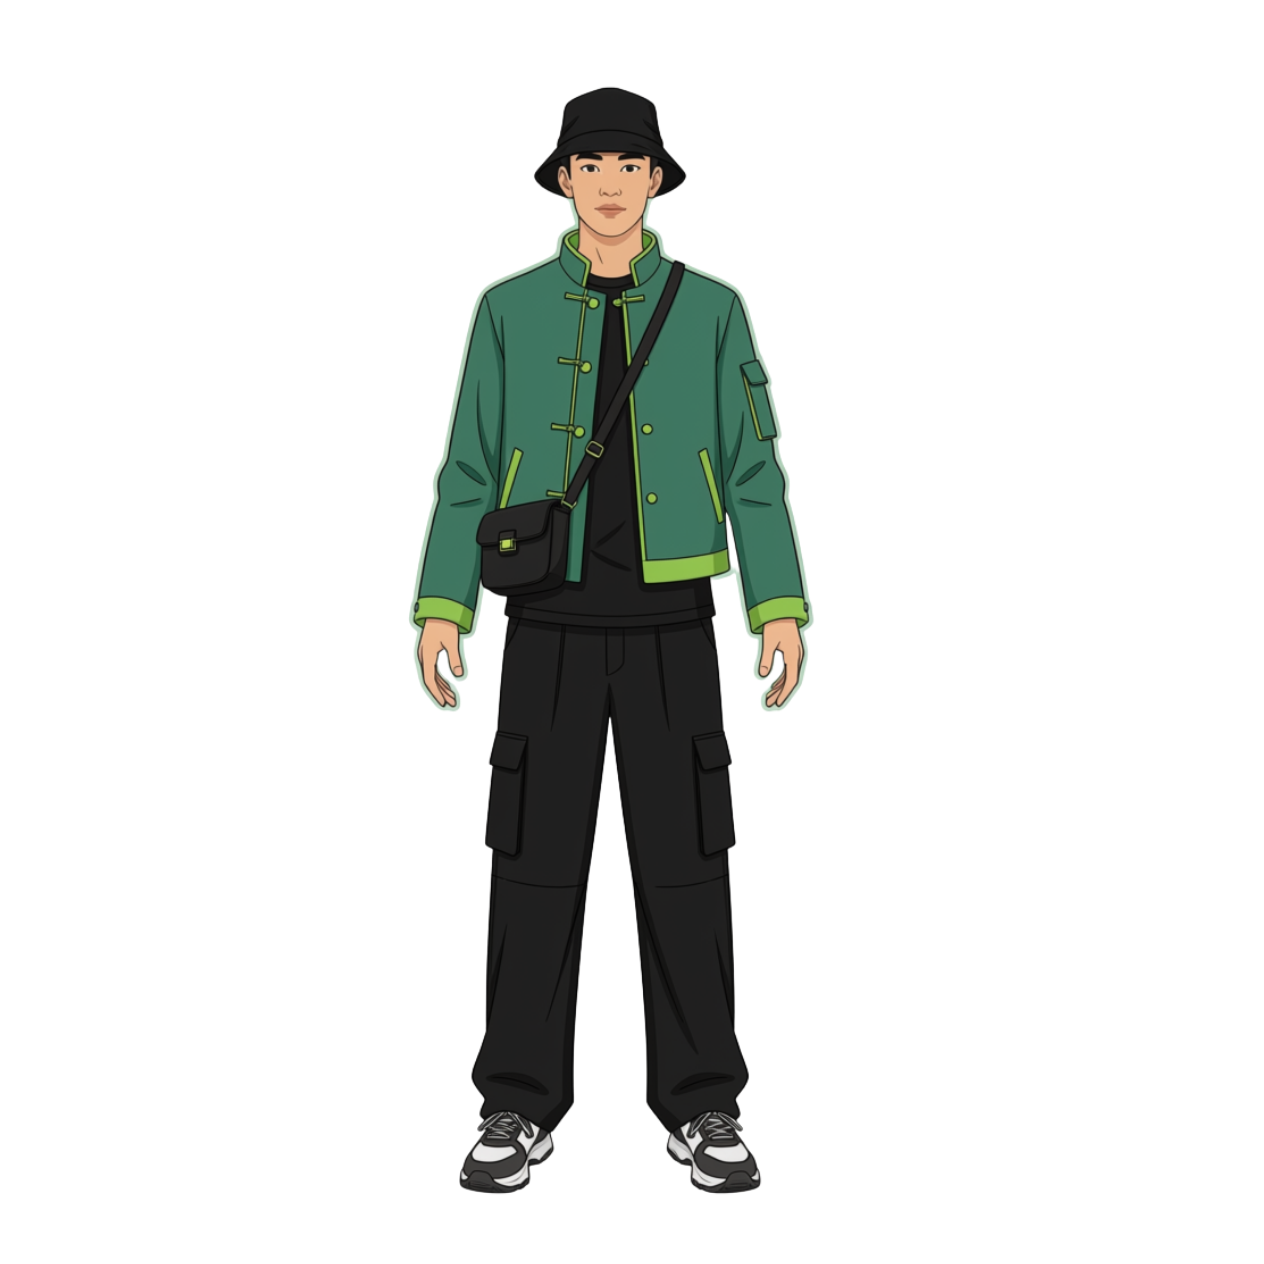
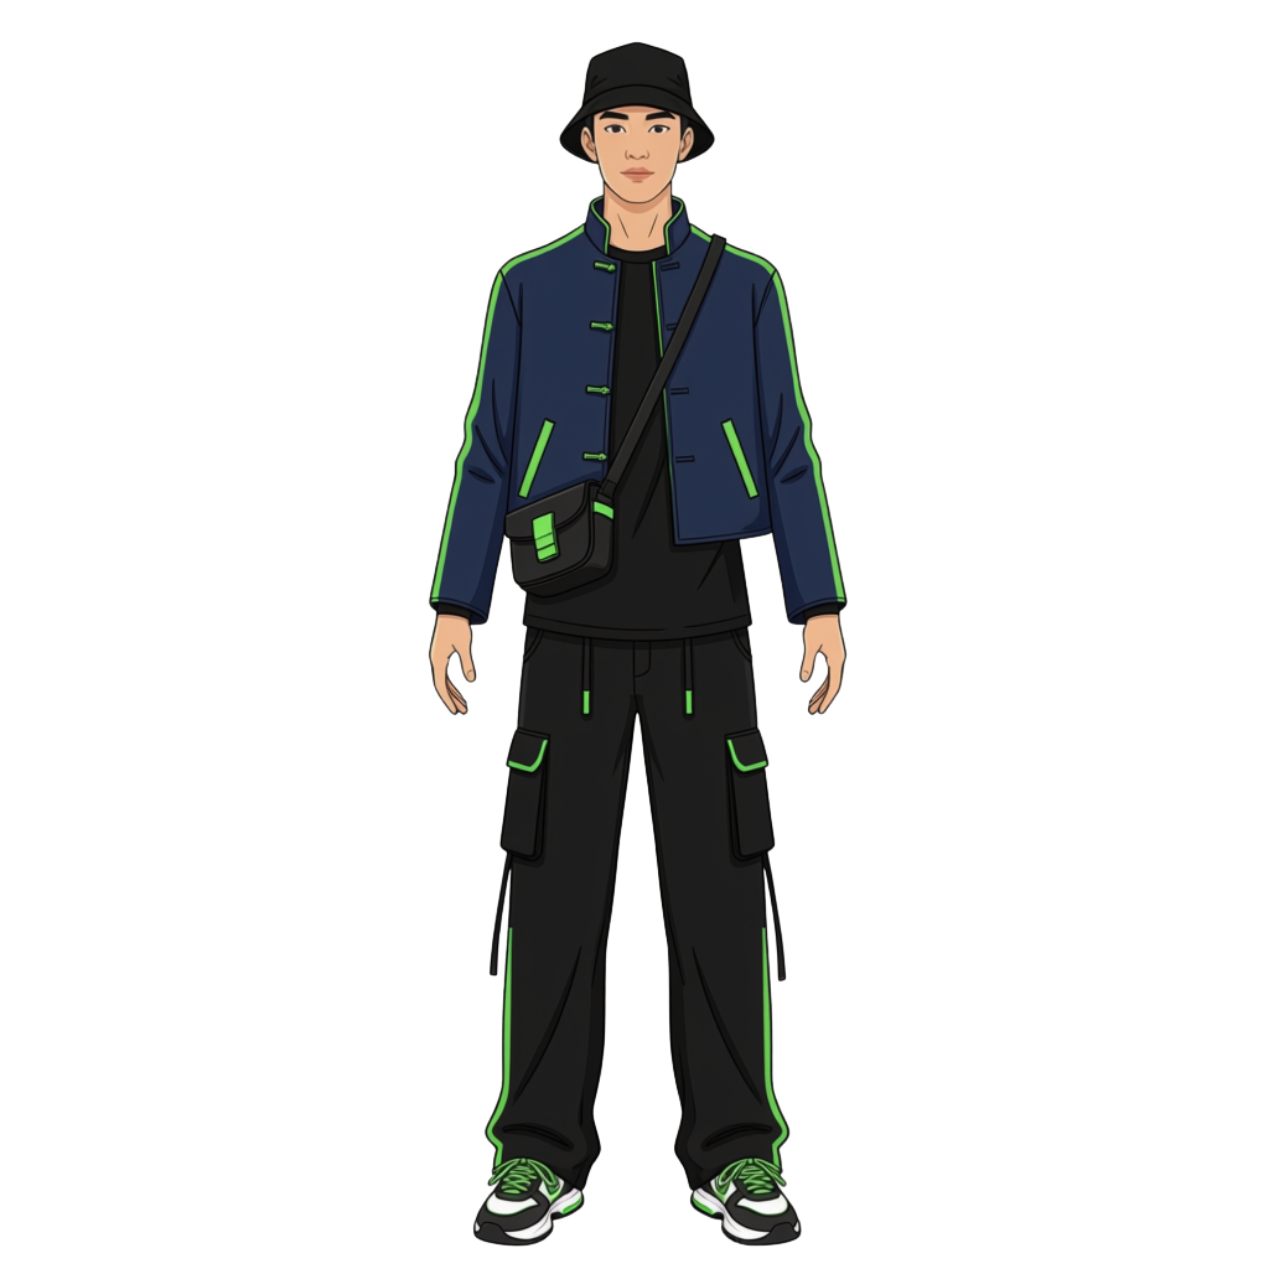
Fix male remix layering, map colors correctly, style BookOfOutfits pages

Changed region(s): [[0.3085, 0.0309, 0.6788, 0.9873]]

diff --git a/src/components/PaperDoll.tsx b/src/components/PaperDoll.tsx
@@ -745,7 +745,7 @@ export const Character = ({ gender = 'female', skinTone = "#FFD1B3", hair = "bun
                             }
 
                             let href = '';
-                            if (styleMode === 'modern' && gender === 'female') {
+                            if (styleMode === 'modern' && gender === 'female' && outfitType === 'tu_than') {
                                 const rLevel = remixLevel || 50;
                                 const intensity = rLevel > 60 ? 'high' : 'low';
                                 const rPrefix = colorFolder === 'default' ? `ao_${outfitType}` : `ao_${outfitType}_${colorFolder}`;
@@ -767,29 +767,42 @@ export const Character = ({ gender = 'female', skinTone = "#FFD1B3", hair = "bun
                             else if (layers.top === 'ao-ngu-than') fallbackComponent = <AoNguThan primary={primary} secondary={secondary} layers={layers} styleMode={styleMode} />;
                             else if (layers.top === 'ao-ba-ba') fallbackComponent = <AoBaBa primary={primary} secondary={secondary} layers={layers} styleMode={styleMode} />;
 
-                            if (gender === 'female' && styleMode === 'modern') {
+                            if (styleMode === 'modern' && outfitType === 'tu_than') {
                                 const rLevel = remixLevel || 50;
-                                const rPrefix = colorFolder === 'default' ? `ao_${outfitType}` : `ao_${outfitType}_${colorFolder}`;
-                                const lowHref = `/assets/character/top/remix/female/${rPrefix}_low.png?v=${Date.now()}`;
-                                const highHref = `/assets/character/top/remix/female/${rPrefix}_high.png?v=${Date.now()}`;
-                                
-                                // Map 26-100 to 0-1 opacity for high image
                                 const highOpacity = Math.max(0, Math.min(1, (rLevel - 26) / (100 - 26)));
+                                
+                                let lowHref = '';
+                                let highHref = '';
+                                let renderKey = '';
+
+                                if (gender === 'female') {
+                                    const rPrefix = colorFolder === 'default' ? `ao_${outfitType}` : `ao_${outfitType}_${colorFolder}`;
+                                    lowHref = `/assets/character/top/remix/female/${rPrefix}_low.png?v=${Date.now()}`;
+                                    highHref = `/assets/character/top/remix/female/${rPrefix}_high.png?v=${Date.now()}`;
+                                    renderKey = `png-top-new-remix-${rPrefix}`;
+                                } else {
+                                    let colorSuffix = '';
+                                    if (colorFolder === 'red') colorSuffix = '_1';
+                                    else if (colorFolder === 'grey') colorSuffix = '_2';
+                                    lowHref = `/assets/character/top/remix/male/the_nam_low${colorSuffix}.png?v=${Date.now()}`;
+                                    highHref = `/assets/character/top/remix/male/the_nam_high${colorSuffix}.png?v=${Date.now()}`;
+                                    renderKey = `png-top-new-remix-male-${colorSuffix}`;
+                                }
 
                                 return (
-                                    <motion.g initial={{ y: -20, opacity: 0 }} animate={{ y: 0, opacity: 1 }} exit={{ y: -20, opacity: 0 }} key={`png-top-new-remix-${rPrefix}`}>
+                                    <motion.g initial={{ y: -20, opacity: 0 }} animate={{ y: 0, opacity: 1 }} exit={{ y: -20, opacity: 0 }} key={renderKey}>
                                         <SafeSvgImage 
                                             href={lowHref}
                                             x="-130" y="-205" width="660" height="825" preserveAspectRatio="xMidYMax meet" 
-                                            fallback={fallbackComponent}
-                                            fallbackBase={<BodyBase skinTone={skinTone} />}
+                                            fallback={null}
+                                            fallbackBase={null}
                                         />
                                         {highOpacity > 0 && (
                                             <SafeSvgImage 
                                                 href={highHref}
                                                 x="-130" y="-205" width="660" height="825" preserveAspectRatio="xMidYMax meet" 
                                                 style={{ opacity: highOpacity, transition: 'opacity 0.1s ease-out' }}
-                                                fallback={fallbackComponent}
+                                                fallback={null}
                                                 fallbackBase={null}
                                             />
                                         )}

diff --git a/src/components/BookOfOutfits.tsx b/src/components/BookOfOutfits.tsx
@@ -247,28 +247,33 @@ export const BookOfOutfits = ({ onStartPhoi }: { onStartPhoi: () => void }) => {
                             </div>
                         </div>
                     </Page>
-
-                    {/* End Page */}
+                    {/* End Page (Left) */}
                     <Page>
                         {renderEndPage()}
                     </Page>
 
-                    {/* Inside Back Cover (Blank) */}
+                    {/* Blank Page (Right) */}
                     <Page className="bg-[#EAE0D3]">
+                        <div className="w-full h-full bg-[#EAE0D3]"></div>
                     </Page>
 
-                    {/* Back Cover Left */}
-                    <Page className="bg-[#8B0000] border-r-[2px] border-[#5A0000] shadow-[inset_-10px_0_20px_rgba(0,0,0,0.2)]">
-                        <div className="w-full h-full flex flex-col items-center justify-center p-8 text-center opacity-80">
+                    {/* Inside Back Cover (Left) */}
+                    <Page className="bg-[#EAE0D3]">
+                        <div className="w-full h-full bg-[#EAE0D3]"></div>
+                    </Page>
+
+                    {/* Back Cover Inside (Right) */}
+                    <Page>
+                        <div className="w-full h-full bg-[#8B0000] flex flex-col items-center justify-center p-8 text-center opacity-90 border-r-[2px] border-[#5A0000] shadow-[inset_-10px_0_20px_rgba(0,0,0,0.2)]">
                             <h2 className="font-display text-2xl text-[#F3EFE0] mb-2 drop-shadow-sm">Sợi Nguồn</h2>
                             <div className="w-8 h-px bg-[#F3EFE0]/60 mx-auto mb-2"></div>
                             <p className="font-label text-[10px] text-[#F3EFE0]/80 uppercase tracking-widest">Bảo tồn và Phát huy</p>
                         </div>
                     </Page>
 
-                    {/* Back Cover Right */}
-                    <Page className="bg-[#8B0000] border-l-[12px] border-[#5A0000] relative overflow-hidden shadow-[inset_10px_0_20px_rgba(0,0,0,0.2)]">
-                        <div className="w-full h-full flex items-center justify-center">
+                    {/* Back Cover Outside (Left) */}
+                    <Page>
+                        <div className="w-full h-full bg-[#8B0000] flex items-center justify-center border-l-[12px] border-[#5A0000] relative overflow-hidden shadow-[inset_10px_0_20px_rgba(0,0,0,0.2)]">
                             {/* Corner decorations */}
                             <div className="absolute top-6 left-6 w-16 h-16 border-t-2 border-l-2 border-[#F3EFE0]/30"></div>
                             <div className="absolute top-6 right-6 w-16 h-16 border-t-2 border-r-2 border-[#F3EFE0]/30"></div>

diff --git a/src/data/imageManifest.ts b/src/data/imageManifest.ts
@@ -77,12 +77,14 @@ export const imageManifest: ImageManifestItem[] = [
     // Costumes
     { slot: 'costume-ao-dai', alt: 'Áo dài', kind: 'costume', credit: 'Ảnh do AI tạo' },
     { slot: 'costume-ao-tu-than', alt: 'Áo tứ thân', kind: 'costume', localPath: '/images/costumes/ao-tu-than.jpg', credit: 'Ảnh do AI tạo' },
-    { slot: 'costume-ao-ngu-than', alt: 'Áo ngũ thân', kind: 'costume', localPath: '/images/costumes/ao-ngu-than.jpg', credit: 'Ảnh do AI tạo' },
+    { slot: 'costume-ao-ngu-than-female', alt: 'Áo ngũ thân', kind: 'costume', localPath: '/images/costumes/ngu-than-nu.jpg', credit: 'Ảnh do AI tạo' },
+    { slot: 'costume-ao-ngu-than-male', alt: 'Áo ngũ thân', kind: 'costume', localPath: '/images/costumes/ngu-than-nam.jpg', credit: 'Ảnh do AI tạo' },
     { slot: 'costume-ao-nhat-binh', alt: 'Áo nhật bình', kind: 'costume', credit: 'Ảnh do AI tạo' },
     { slot: 'costume-ao-giao-linh', alt: 'Áo giao lĩnh', kind: 'costume', credit: 'Ảnh do AI tạo' },
     { slot: 'costume-ao-tac', alt: 'Áo tấc', kind: 'costume', credit: 'Ảnh do AI tạo' },
     { slot: 'costume-ao-the', alt: 'Áo the nam', kind: 'costume', localPath: '/images/costumes/ao-the.jpg', credit: 'Ảnh do AI tạo' },
-    { slot: 'costume-ao-ba-ba', alt: 'Áo bà ba', kind: 'costume', localPath: '/images/costumes/ao-ba-ba.jpg', credit: 'Ảnh do AI tạo' },
+    { slot: 'costume-ao-ba-ba-female', alt: 'Áo bà ba', kind: 'costume', localPath: '/images/costumes/ba-ba-nu.jpg', credit: 'Ảnh do AI tạo' },
+    { slot: 'costume-ao-ba-ba-male', alt: 'Áo bà ba', kind: 'costume', localPath: '/images/costumes/ba-ba-nam.jpg', credit: 'Ảnh do AI tạo' },
     { slot: 'costume-ao-canh', alt: 'Áo cánh', kind: 'costume', credit: 'Ảnh do AI tạo' },
     { slot: 'costume-yem', alt: 'Yếm váy', kind: 'costume', credit: 'Ảnh do AI tạo' },
     { slot: 'costume-ao-chen', alt: 'Áo chẽn', kind: 'costume', credit: 'Ảnh do AI tạo' },

diff --git a/src/components/wizard-steps/Step3Top.tsx b/src/components/wizard-steps/Step3Top.tsx
@@ -118,7 +118,14 @@ export default function Step3Top({ state, updateState, setGuardMessage, onOpenCu
                                 {top.id === 'ao-tu-than' && state.gender === 'male' ? (
                                     <img src="/assets/character/top/tu_than/male/ao_the_thumbnail.jpg" alt="Áo the" className="absolute inset-0 w-full h-full object-cover object-center mix-blend-multiply opacity-90 pointer-events-none" />
                                 ) : (
-                                    <SmartImage slot={`costume-${top.id}`} className="absolute inset-0 w-full h-full object-cover object-center mix-blend-multiply opacity-90 pointer-events-none" />
+                                    <SmartImage 
+                                        slot={
+                                            top.id === 'ao-ba-ba' ? `costume-ao-ba-ba-${state.gender}` :
+                                            top.id === 'ao-ngu-than' ? `costume-ao-ngu-than-${state.gender}` :
+                                            `costume-${top.id}`
+                                        } 
+                                        className="absolute inset-0 w-full h-full object-cover object-center mix-blend-multiply opacity-90 pointer-events-none" 
+                                    />
                                 )}
                             </div>
 

diff --git a/src/components/wizard-steps/Step6Mode.tsx b/src/components/wizard-steps/Step6Mode.tsx
@@ -68,7 +68,7 @@ export default function Step6Mode({ state, updateState, setGuardMessage }: Props
                 </button>
             </div>
             
-            {state.mode === 'modern' && (
+            {state.mode === 'modern' && state.top === 'ao-tu-than' && (
                 <div className="w-full max-w-sm py-4 relative">
                     <p className="text-center text-[#2B2118]/60 italic mb-6 text-sm">
                         Kéo thả để chọn mức độ remix
@@ -81,7 +81,7 @@ export default function Step6Mode({ state, updateState, setGuardMessage }: Props
                         onChange={(e) => {
                             const val = parseInt(e.target.value);
                             updateState({ remixLevel: val });
-                            if (state.top === 'ao-tu-than' && state.gender === 'female') {
+                            if (state.top === 'ao-tu-than') {
                                 if (val > 60) {
                                     setGuardMessage("Cảnh báo văn hóa: Mức độ remix quá cao có thể làm mất đi đặc trưng của Áo Tứ Thân truyền thống.");
                                 } else {
